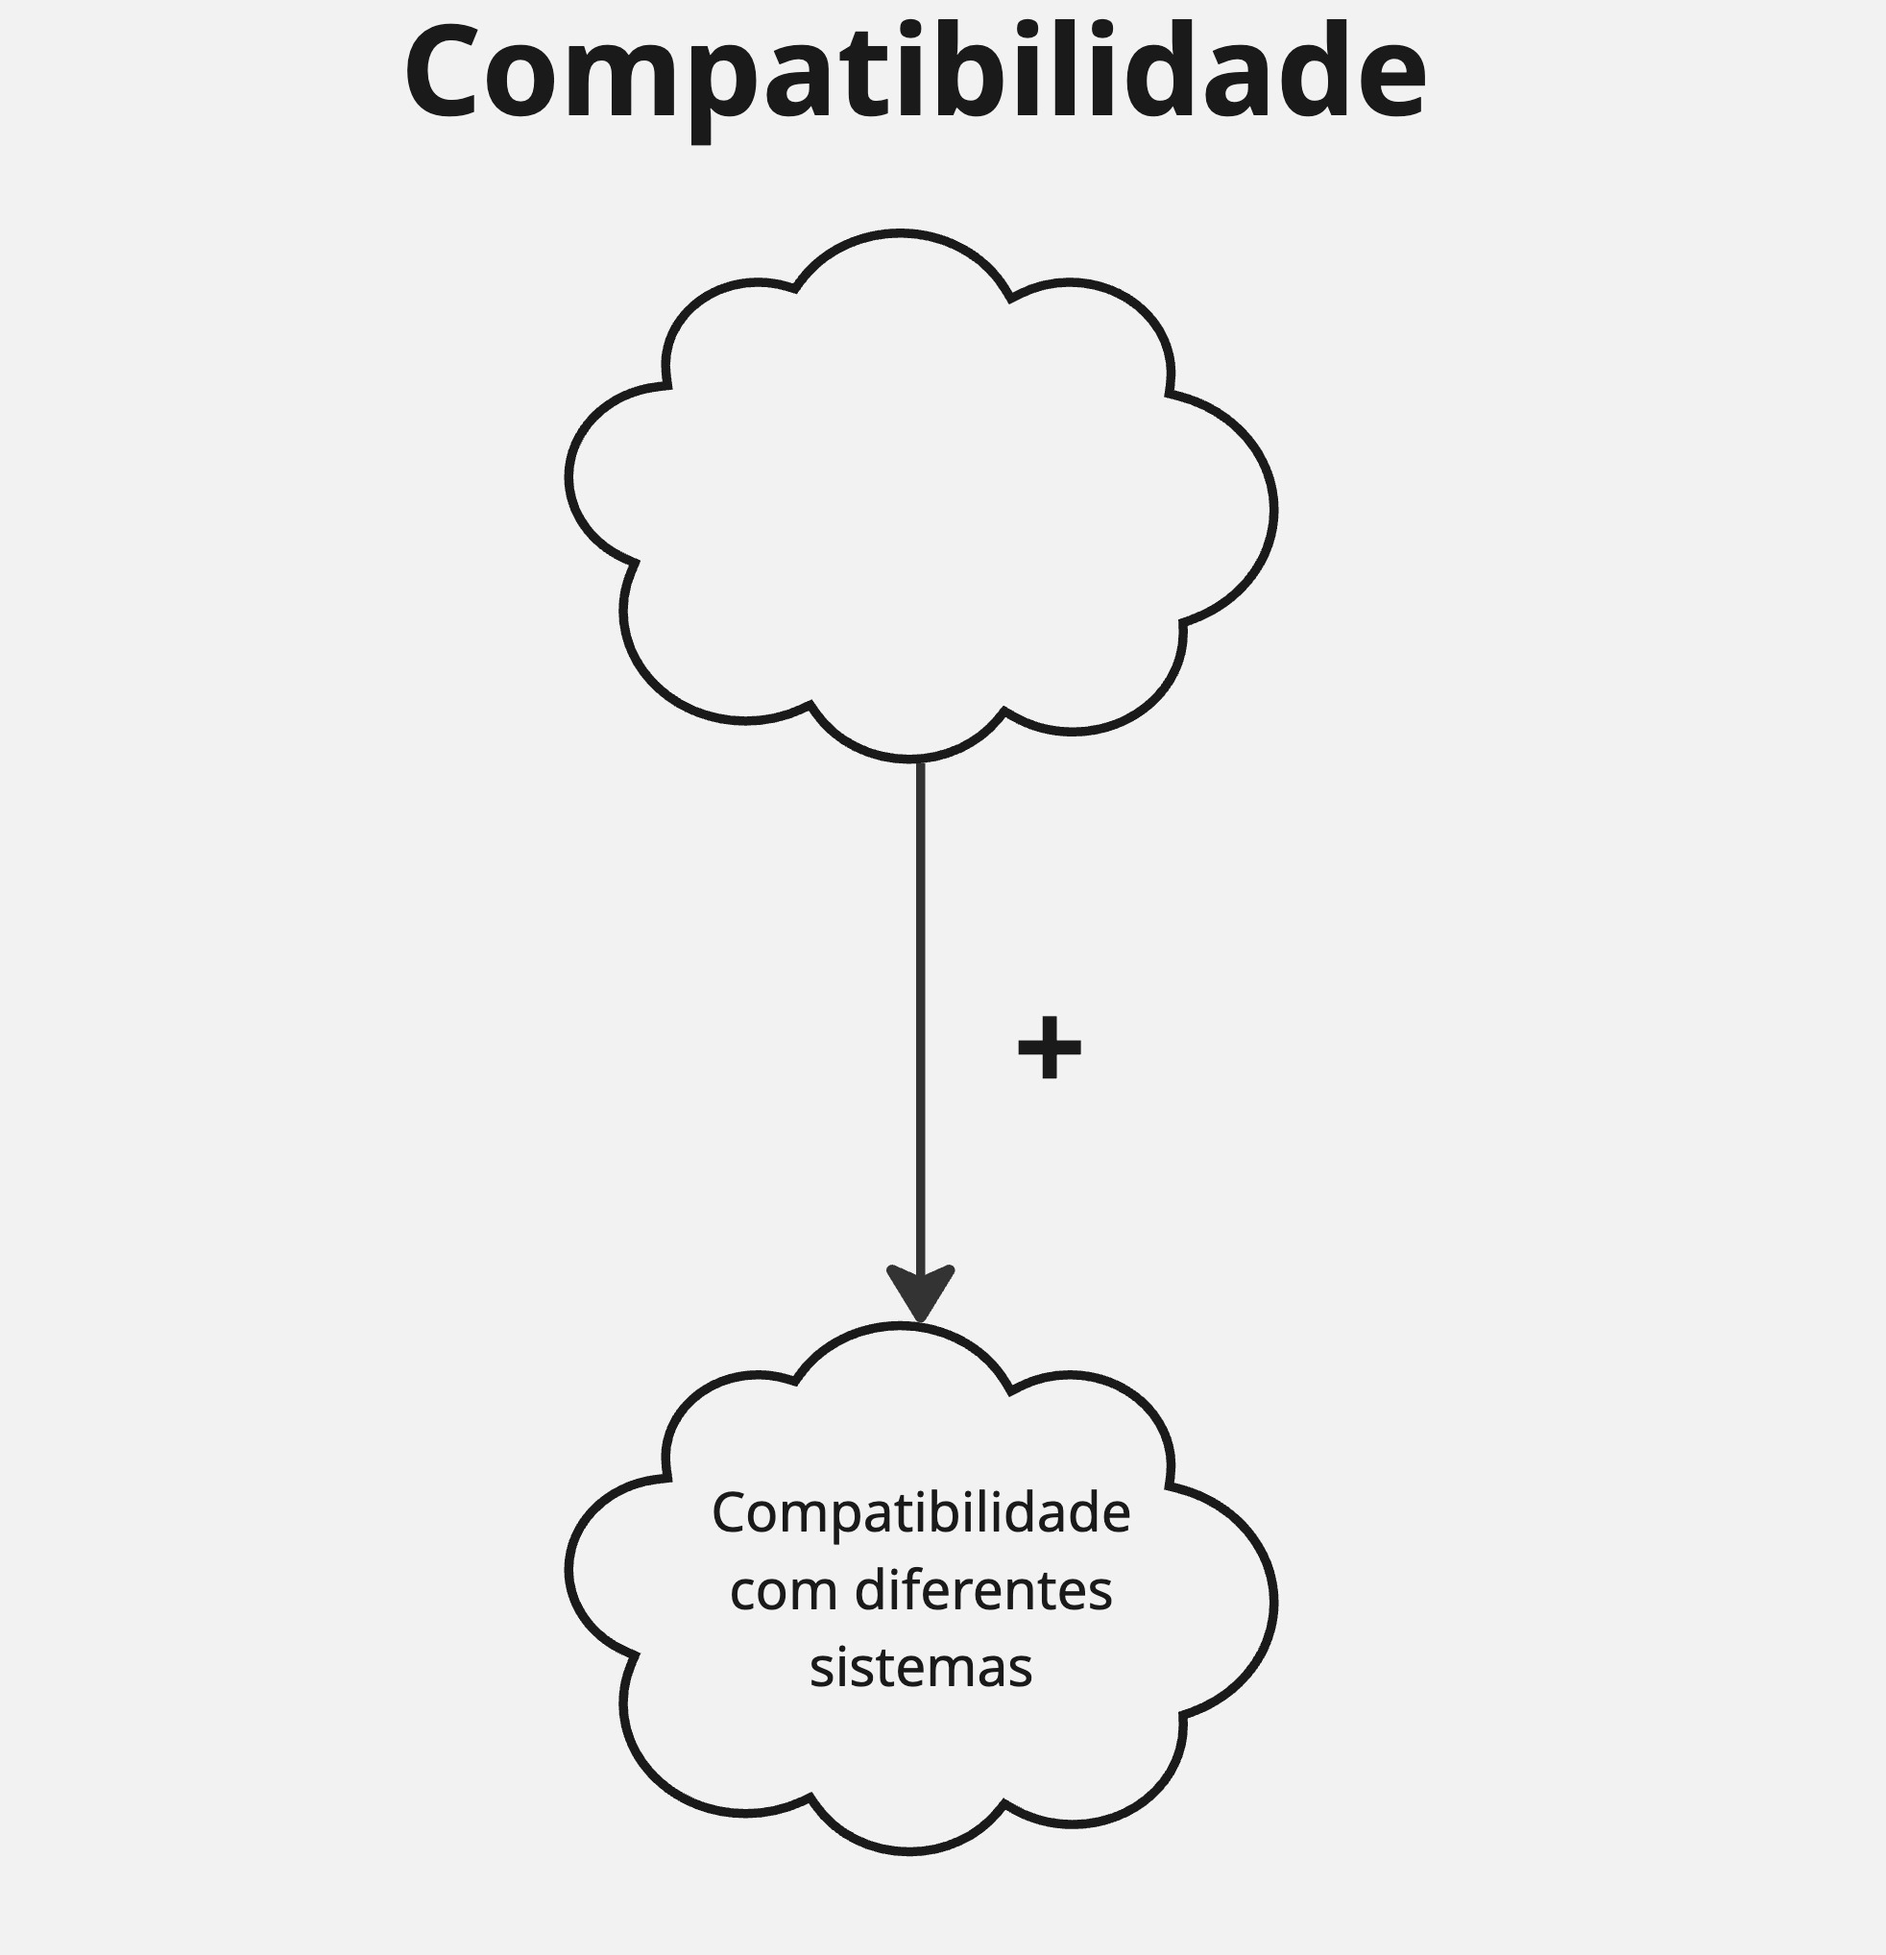
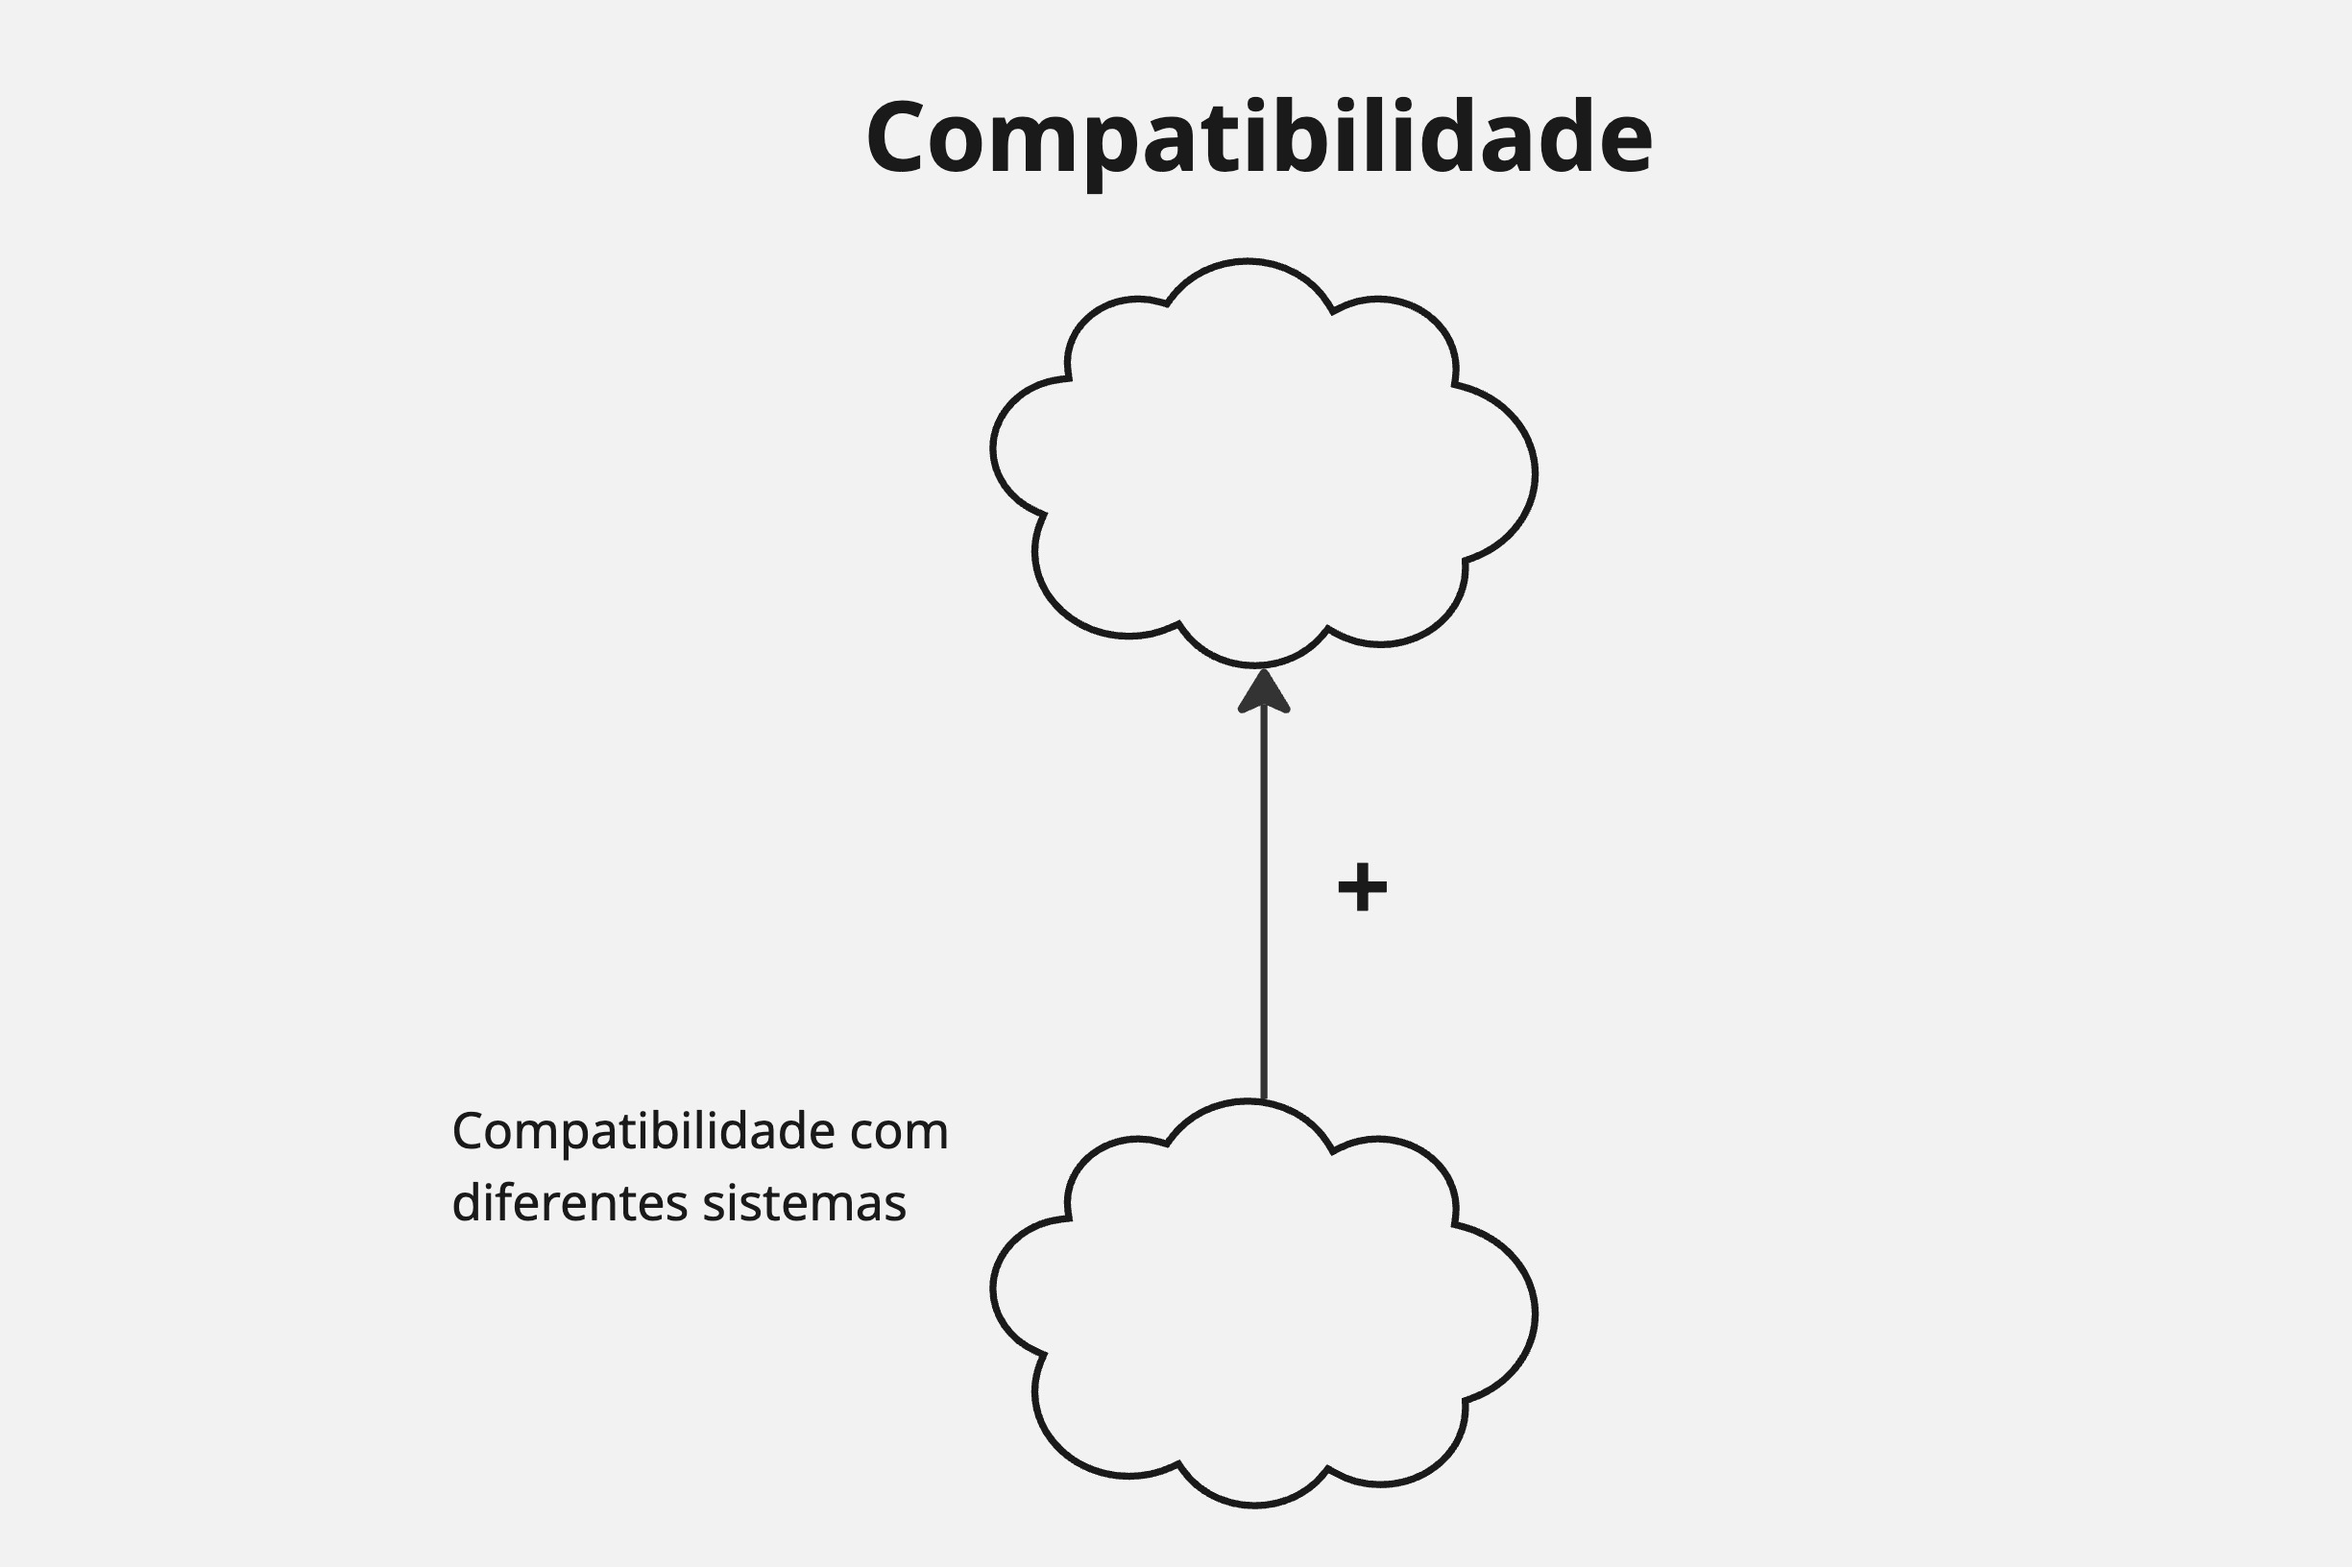
docs

diff --git a/docs/modelagem/Agil/NfrFrameworkd.md b/docs/modelagem/Agil/NfrFrameworkd.md
@@ -760,15 +760,7 @@ No video abaixo é feito a validação da parte de acessibilidade pelo integrant
 
 ##  6. Portabilidade / Compatibilidade
 
-#### SIG de compatibilidade
-
-Na figura mostra o SIG de compatibilidade
-
-<font size="3"><p style="text-align: center"><b> Figura 08:</b> SIG-compatibilidade</font>
-![SIG-Acessibilidade](../../assets/nfr/compatibilidade.jpg)
- <font size="3"><p style="text-align: center"><b>Fonte:[Gabriel Mendes](https://github.com/gbevi) , 2025.</b> </font>
-
-Na tabela x temos os requisitos não funcionais de portabilidade/compatibilidade
+Na tabela 23 temos os requisitos não funcionais de portabilidade/compatibilidade
 
 <font size="3"><b>Tabela 23:</b>requisitos não funcionais de portabilidade/compatibilidade </font>
 
@@ -778,7 +770,7 @@ Na tabela x temos os requisitos não funcionais de portabilidade/compatibilidade
 
 <font size="3"><p style="text-align: center">Fonte: [Gabriel Mendes](https://github.com/gbevi) , 2025.</p></font>
 
-Na tabela x temos o cartão de especificação do requisito RNF02.
+Na tabela 24 temos o cartão de especificação do requisito RNF02.
 
 <font size="3"><b>Tabela 24:</b> Cartão de Especificação do Requisito RNF02</font>
 
@@ -796,6 +788,20 @@ Na tabela x temos o cartão de especificação do requisito RNF02.
 | **História**                           | Criado em 01/06/2025                                                                                                                                            |
 
 <font size="3"><p style="text-align: center">Fonte: [Gabriel Mendes](https://github.com/gbevi) , 2025.</p></font>
+
+#### SIG de compatibilidade
+
+Na figura mostra o SIG de compatibilidade sem propagação de impactos
+
+<font size="3"><p style="text-align: center"><b> Figura 08:</b> SIG-compatibilidade</font>
+![SIG-Acessibilidade](../../assets/nfr/compatibilidade.jpg)
+ <font size="3"><p style="text-align: center"><b>Fonte:[Gabriel Mendes](https://github.com/gbevi) , 2025.</b> </font>
+
+ Na figura mostra o SIG de compatibilidade com propagação de impactos
+
+<font size="3"><p style="text-align: center"><b> Figura 08:</b> SIG-compatibilidade</font>
+![SIG-Acessibilidade](../../assets/nfr/compatpro.jpg)
+ <font size="3"><p style="text-align: center"><b>Fonte:[Gabriel Mendes](https://github.com/gbevi) , 2025.</b> </font>
 
 # Propagação de Impactos
 
